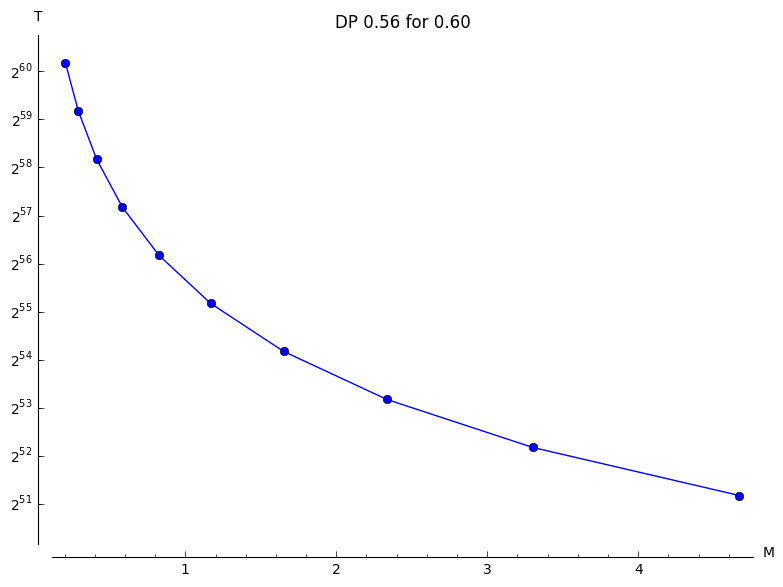
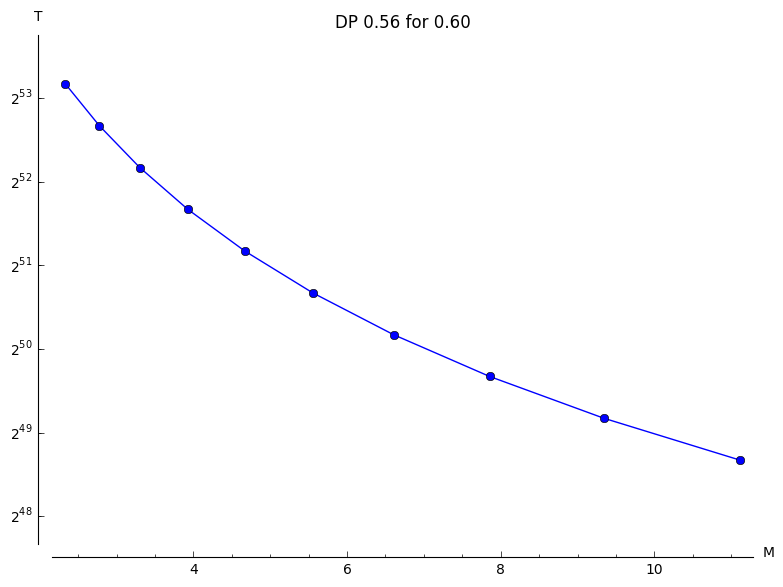
DP ish rapport & math

diff --git a/src/math/DP_table.tex b/src/math/DP_table.tex
@@ -1,41 +1,119 @@
 \begin{tabular}{llllll}
-dps: 0.60 & dmsc: 0.56 & dcr: 0.81 & dtc: 2.67 & dpc: 1.13 & dtmp 7.01 \\
+dps: 0.60 & dmsc: 0.56 & dcr: 0.81 & dtc: 3.53 & dpc: 1.13 & dtmp 7.01 \\
 m & t & l & M in tb & T \\
-$2^{4}$ & $2^{29.58}$ & $2^{30.59}$ & $0.21$ TB & $2^{60.17}$ \\
-$2^{5}$ & $2^{29.08}$ & $2^{30.09}$ & $0.29$ TB & $2^{59.17}$ \\
-$2^{6}$ & $2^{28.58}$ & $2^{29.59}$ & $0.41$ TB & $2^{58.17}$ \\
-$2^{7}$ & $2^{28.08}$ & $2^{29.09}$ & $0.58$ TB & $2^{57.17}$ \\
-$2^{8}$ & $2^{27.58}$ & $2^{28.59}$ & $0.83$ TB & $2^{56.17}$ \\
-$2^{9}$ & $2^{27.08}$ & $2^{28.09}$ & $1.17$ TB & $2^{55.17}$ \\
-$2^{10}$ & $2^{26.58}$ & $2^{27.59}$ & $1.65$ TB & $2^{54.17}$ \\
-$2^{11}$ & $2^{26.08}$ & $2^{27.09}$ & $2.34$ TB & $2^{53.17}$ \\
-$2^{12}$ & $2^{25.58}$ & $2^{26.59}$ & $3.30$ TB & $2^{52.17}$ \\
-$2^{13}$ & $2^{25.08}$ & $2^{26.09}$ & $4.67$ TB & $2^{51.17}$ \\
+$2^{11.00}$ & $2^{26.08}$ & $2^{27.09}$ & $2.34$ TB & $2^{53.17}$ \\
+$2^{11.50}$ & $2^{25.83}$ & $2^{26.84}$ & $2.78$ TB & $2^{52.67}$ \\
+$2^{12.00}$ & $2^{25.58}$ & $2^{26.59}$ & $3.30$ TB & $2^{52.17}$ \\
+$2^{12.50}$ & $2^{25.33}$ & $2^{26.34}$ & $3.93$ TB & $2^{51.67}$ \\
+$2^{13.00}$ & $2^{25.08}$ & $2^{26.09}$ & $4.67$ TB & $2^{51.17}$ \\
+$2^{13.50}$ & $2^{24.83}$ & $2^{25.84}$ & $5.55$ TB & $2^{50.67}$ \\
+$2^{14.00}$ & $2^{24.58}$ & $2^{25.59}$ & $6.60$ TB & $2^{50.17}$ \\
+$2^{14.50}$ & $2^{24.33}$ & $2^{25.34}$ & $7.85$ TB & $2^{49.67}$ \\
+$2^{15.00}$ & $2^{24.08}$ & $2^{25.09}$ & $9.34$ TB & $2^{49.17}$ \\
+$2^{15.50}$ & $2^{23.83}$ & $2^{24.84}$ & $11.11$ TB & $2^{48.67}$ \\
  &  &  &  &  &  \\
-dps: 0.73 & dmsc: 0.56 & dcr: 0.81 & dtc: 6.63 & dpc: 1.61 & dtmp 7.01 \\
+dps: 0.73 & dmsc: 0.56 & dcr: 0.81 & dtc: 8.77 & dpc: 1.61 & dtmp 7.01 \\
 m & t & l & M in tb & T \\
-$2^{4}$ & $2^{29.58}$ & $2^{31.10}$ & $0.29$ TB & $2^{60.69}$ \\
-$2^{5}$ & $2^{29.08}$ & $2^{30.60}$ & $0.42$ TB & $2^{59.69}$ \\
-$2^{6}$ & $2^{28.58}$ & $2^{30.10}$ & $0.59$ TB & $2^{58.69}$ \\
-$2^{7}$ & $2^{28.08}$ & $2^{29.60}$ & $0.83$ TB & $2^{57.69}$ \\
-$2^{8}$ & $2^{27.58}$ & $2^{29.10}$ & $1.18$ TB & $2^{56.69}$ \\
-$2^{9}$ & $2^{27.08}$ & $2^{28.60}$ & $1.67$ TB & $2^{55.69}$ \\
-$2^{10}$ & $2^{26.58}$ & $2^{28.10}$ & $2.36$ TB & $2^{54.69}$ \\
-$2^{11}$ & $2^{26.08}$ & $2^{27.60}$ & $3.34$ TB & $2^{53.69}$ \\
-$2^{12}$ & $2^{25.58}$ & $2^{27.10}$ & $4.72$ TB & $2^{52.69}$ \\
-$2^{13}$ & $2^{25.08}$ & $2^{26.60}$ & $6.67$ TB & $2^{51.69}$ \\
+$2^{10.00}$ & $2^{26.58}$ & $2^{28.10}$ & $2.36$ TB & $2^{54.69}$ \\
+$2^{10.50}$ & $2^{26.33}$ & $2^{27.85}$ & $2.81$ TB & $2^{54.19}$ \\
+$2^{11.00}$ & $2^{26.08}$ & $2^{27.60}$ & $3.34$ TB & $2^{53.69}$ \\
+$2^{11.50}$ & $2^{25.83}$ & $2^{27.35}$ & $3.97$ TB & $2^{53.19}$ \\
+$2^{12.00}$ & $2^{25.58}$ & $2^{27.10}$ & $4.72$ TB & $2^{52.69}$ \\
+$2^{12.50}$ & $2^{25.33}$ & $2^{26.85}$ & $5.61$ TB & $2^{52.19}$ \\
+$2^{13.00}$ & $2^{25.08}$ & $2^{26.60}$ & $6.67$ TB & $2^{51.69}$ \\
+$2^{13.50}$ & $2^{24.83}$ & $2^{26.35}$ & $7.94$ TB & $2^{51.19}$ \\
+$2^{14.00}$ & $2^{24.58}$ & $2^{26.10}$ & $9.44$ TB & $2^{50.69}$ \\
+$2^{14.50}$ & $2^{24.33}$ & $2^{25.85}$ & $11.22$ TB & $2^{50.19}$ \\
  &  &  &  &  &  \\
-dps: 0.90 & dmsc: 0.56 & dcr: 0.81 & dtc: 25.29 & dpc: 2.83 & dtmp 7.01 \\
+dps: 0.90 & dmsc: 0.56 & dcr: 0.81 & dtc: 33.45 & dpc: 2.83 & dtmp 7.01 \\
 m & t & l & M in tb & T \\
-$2^{4}$ & $2^{29.58}$ & $2^{31.92}$ & $0.52$ TB & $2^{61.50}$ \\
-$2^{5}$ & $2^{29.08}$ & $2^{31.42}$ & $0.73$ TB & $2^{60.50}$ \\
-$2^{6}$ & $2^{28.58}$ & $2^{30.92}$ & $1.04$ TB & $2^{59.50}$ \\
-$2^{7}$ & $2^{28.08}$ & $2^{30.42}$ & $1.47$ TB & $2^{58.50}$ \\
-$2^{8}$ & $2^{27.58}$ & $2^{29.92}$ & $2.07$ TB & $2^{57.50}$ \\
-$2^{9}$ & $2^{27.08}$ & $2^{29.42}$ & $2.93$ TB & $2^{56.50}$ \\
-$2^{10}$ & $2^{26.58}$ & $2^{28.92}$ & $4.15$ TB & $2^{55.50}$ \\
-$2^{11}$ & $2^{26.08}$ & $2^{28.42}$ & $5.87$ TB & $2^{54.50}$ \\
-$2^{12}$ & $2^{25.58}$ & $2^{27.92}$ & $8.30$ TB & $2^{53.50}$ \\
-$2^{13}$ & $2^{25.08}$ & $2^{27.42}$ & $11.74$ TB & $2^{52.50}$ \\
+$2^{8.00}$ & $2^{27.58}$ & $2^{29.92}$ & $2.07$ TB & $2^{57.50}$ \\
+$2^{8.50}$ & $2^{27.33}$ & $2^{29.67}$ & $2.47$ TB & $2^{57.00}$ \\
+$2^{9.00}$ & $2^{27.08}$ & $2^{29.42}$ & $2.93$ TB & $2^{56.50}$ \\
+$2^{9.50}$ & $2^{26.83}$ & $2^{29.17}$ & $3.49$ TB & $2^{56.00}$ \\
+$2^{10.00}$ & $2^{26.58}$ & $2^{28.92}$ & $4.15$ TB & $2^{55.50}$ \\
+$2^{10.50}$ & $2^{26.33}$ & $2^{28.67}$ & $4.93$ TB & $2^{55.00}$ \\
+$2^{11.00}$ & $2^{26.08}$ & $2^{28.42}$ & $5.87$ TB & $2^{54.50}$ \\
+$2^{11.50}$ & $2^{25.83}$ & $2^{28.17}$ & $6.98$ TB & $2^{54.00}$ \\
+$2^{12.00}$ & $2^{25.58}$ & $2^{27.92}$ & $8.30$ TB & $2^{53.50}$ \\
+$2^{12.50}$ & $2^{25.33}$ & $2^{27.67}$ & $9.87$ TB & $2^{53.00}$ \\
+ &  &  &  &  &  \\
+dps: 0.73 & dmsc: 0.20 & dcr: 0.92 & dtc: 11.40 & dpc: 1.43 & dtmp 9.11 \\
+m & t & l & M in tb & T \\
+$2^{9.00}$ & $2^{26.34}$ & $2^{29.18}$ & $2.48$ TB & $2^{55.52}$ \\
+$2^{9.50}$ & $2^{26.09}$ & $2^{28.93}$ & $2.95$ TB & $2^{55.02}$ \\
+$2^{10.00}$ & $2^{25.84}$ & $2^{28.68}$ & $3.51$ TB & $2^{54.52}$ \\
+$2^{10.50}$ & $2^{25.59}$ & $2^{28.43}$ & $4.18$ TB & $2^{54.02}$ \\
+$2^{11.00}$ & $2^{25.34}$ & $2^{28.18}$ & $4.97$ TB & $2^{53.52}$ \\
+$2^{11.50}$ & $2^{25.09}$ & $2^{27.93}$ & $5.91$ TB & $2^{53.02}$ \\
+$2^{12.00}$ & $2^{24.84}$ & $2^{27.68}$ & $7.03$ TB & $2^{52.52}$ \\
+$2^{12.50}$ & $2^{24.59}$ & $2^{27.43}$ & $8.36$ TB & $2^{52.02}$ \\
+$2^{13.00}$ & $2^{24.34}$ & $2^{27.18}$ & $9.94$ TB & $2^{51.52}$ \\
+$2^{13.50}$ & $2^{24.09}$ & $2^{26.93}$ & $11.82$ TB & $2^{51.02}$ \\
+ &  &  &  &  &  \\
+dps: 0.73 & dmsc: 0.35 & dcr: 0.87 & dtc: 9.29 & dpc: 1.51 & dtmp 7.42 \\
+m & t & l & M in tb & T \\
+$2^{9.00}$ & $2^{26.74}$ & $2^{28.85}$ & $1.98$ TB & $2^{55.59}$ \\
+$2^{9.50}$ & $2^{26.49}$ & $2^{28.60}$ & $2.36$ TB & $2^{55.09}$ \\
+$2^{10.00}$ & $2^{26.24}$ & $2^{28.35}$ & $2.80$ TB & $2^{54.59}$ \\
+$2^{10.50}$ & $2^{25.99}$ & $2^{28.10}$ & $3.33$ TB & $2^{54.09}$ \\
+$2^{11.00}$ & $2^{25.74}$ & $2^{27.85}$ & $3.96$ TB & $2^{53.59}$ \\
+$2^{11.50}$ & $2^{25.49}$ & $2^{27.60}$ & $4.71$ TB & $2^{53.09}$ \\
+$2^{12.00}$ & $2^{25.24}$ & $2^{27.35}$ & $5.61$ TB & $2^{52.59}$ \\
+$2^{12.50}$ & $2^{24.99}$ & $2^{27.10}$ & $6.67$ TB & $2^{52.09}$ \\
+$2^{13.00}$ & $2^{24.74}$ & $2^{26.85}$ & $7.93$ TB & $2^{51.59}$ \\
+$2^{13.50}$ & $2^{24.49}$ & $2^{26.60}$ & $9.43$ TB & $2^{51.09}$ \\
+ &  &  &  &  &  \\
+dps: 0.73 & dmsc: 0.56 & dcr: 0.81 & dtc: 8.77 & dpc: 1.61 & dtmp 7.01 \\
+m & t & l & M in tb & T \\
+$2^{9.00}$ & $2^{27.08}$ & $2^{28.60}$ & $1.67$ TB & $2^{55.69}$ \\
+$2^{9.50}$ & $2^{26.83}$ & $2^{28.35}$ & $1.98$ TB & $2^{55.19}$ \\
+$2^{10.00}$ & $2^{26.58}$ & $2^{28.10}$ & $2.36$ TB & $2^{54.69}$ \\
+$2^{10.50}$ & $2^{26.33}$ & $2^{27.85}$ & $2.81$ TB & $2^{54.19}$ \\
+$2^{11.00}$ & $2^{26.08}$ & $2^{27.60}$ & $3.34$ TB & $2^{53.69}$ \\
+$2^{11.50}$ & $2^{25.83}$ & $2^{27.35}$ & $3.97$ TB & $2^{53.19}$ \\
+$2^{12.00}$ & $2^{25.58}$ & $2^{27.10}$ & $4.72$ TB & $2^{52.69}$ \\
+$2^{12.50}$ & $2^{25.33}$ & $2^{26.85}$ & $5.61$ TB & $2^{52.19}$ \\
+$2^{13.00}$ & $2^{25.08}$ & $2^{26.60}$ & $6.67$ TB & $2^{51.69}$ \\
+$2^{13.50}$ & $2^{24.83}$ & $2^{26.35}$ & $7.94$ TB & $2^{51.19}$ \\
+ &  &  &  &  &  \\
+dps: 0.73 & dmsc: 0.75 & dcr: 0.77 & dtc: 8.97 & dpc: 1.69 & dtmp 7.17 \\
+m & t & l & M in tb & T \\
+$2^{9.00}$ & $2^{27.29}$ & $2^{28.46}$ & $1.52$ TB & $2^{55.76}$ \\
+$2^{9.50}$ & $2^{27.04}$ & $2^{28.21}$ & $1.80$ TB & $2^{55.26}$ \\
+$2^{10.00}$ & $2^{26.79}$ & $2^{27.96}$ & $2.15$ TB & $2^{54.76}$ \\
+$2^{10.50}$ & $2^{26.54}$ & $2^{27.71}$ & $2.55$ TB & $2^{54.26}$ \\
+$2^{11.00}$ & $2^{26.29}$ & $2^{27.46}$ & $3.03$ TB & $2^{53.76}$ \\
+$2^{11.50}$ & $2^{26.04}$ & $2^{27.21}$ & $3.61$ TB & $2^{53.26}$ \\
+$2^{12.00}$ & $2^{25.79}$ & $2^{26.96}$ & $4.29$ TB & $2^{52.76}$ \\
+$2^{12.50}$ & $2^{25.54}$ & $2^{26.71}$ & $5.10$ TB & $2^{52.26}$ \\
+$2^{13.00}$ & $2^{25.29}$ & $2^{26.46}$ & $6.07$ TB & $2^{51.76}$ \\
+$2^{13.50}$ & $2^{25.04}$ & $2^{26.21}$ & $7.22$ TB & $2^{51.26}$ \\
+ &  &  &  &  &  \\
+dps: 0.73 & dmsc: 1.00 & dcr: 0.73 & dtc: 9.57 & dpc: 1.79 & dtmp 7.65 \\
+m & t & l & M in tb & T \\
+$2^{9.00}$ & $2^{27.50}$ & $2^{28.34}$ & $1.39$ TB & $2^{55.84}$ \\
+$2^{9.50}$ & $2^{27.25}$ & $2^{28.09}$ & $1.65$ TB & $2^{55.34}$ \\
+$2^{10.00}$ & $2^{27.00}$ & $2^{27.84}$ & $1.97$ TB & $2^{54.84}$ \\
+$2^{10.50}$ & $2^{26.75}$ & $2^{27.59}$ & $2.34$ TB & $2^{54.34}$ \\
+$2^{11.00}$ & $2^{26.50}$ & $2^{27.34}$ & $2.78$ TB & $2^{53.84}$ \\
+$2^{11.50}$ & $2^{26.25}$ & $2^{27.09}$ & $3.31$ TB & $2^{53.34}$ \\
+$2^{12.00}$ & $2^{26.00}$ & $2^{26.84}$ & $3.93$ TB & $2^{52.84}$ \\
+$2^{12.50}$ & $2^{25.75}$ & $2^{26.59}$ & $4.68$ TB & $2^{52.34}$ \\
+$2^{13.00}$ & $2^{25.50}$ & $2^{26.34}$ & $5.56$ TB & $2^{51.84}$ \\
+$2^{13.50}$ & $2^{25.25}$ & $2^{26.09}$ & $6.61$ TB & $2^{51.34}$ \\
+ &  &  &  &  &  \\
+dps: 0.73 & dmsc: 1.25 & dcr: 0.70 & dtc: 10.36 & dpc: 1.88 & dtmp 8.28 \\
+m & t & l & M in tb & T \\
+$2^{9.00}$ & $2^{27.66}$ & $2^{28.25}$ & $1.31$ TB & $2^{55.91}$ \\
+$2^{9.50}$ & $2^{27.41}$ & $2^{28.00}$ & $1.55$ TB & $2^{55.41}$ \\
+$2^{10.00}$ & $2^{27.16}$ & $2^{27.75}$ & $1.85$ TB & $2^{54.91}$ \\
+$2^{10.50}$ & $2^{26.91}$ & $2^{27.50}$ & $2.20$ TB & $2^{54.41}$ \\
+$2^{11.00}$ & $2^{26.66}$ & $2^{27.25}$ & $2.61$ TB & $2^{53.91}$ \\
+$2^{11.50}$ & $2^{26.41}$ & $2^{27.00}$ & $3.11$ TB & $2^{53.41}$ \\
+$2^{12.00}$ & $2^{26.16}$ & $2^{26.75}$ & $3.70$ TB & $2^{52.91}$ \\
+$2^{12.50}$ & $2^{25.91}$ & $2^{26.50}$ & $4.40$ TB & $2^{52.41}$ \\
+$2^{13.00}$ & $2^{25.66}$ & $2^{26.25}$ & $5.23$ TB & $2^{51.91}$ \\
+$2^{13.50}$ & $2^{25.41}$ & $2^{26.00}$ & $6.22$ TB & $2^{51.41}$ \\
  &  &  &  &  &  \\
 \end{tabular}

diff --git a/report/param.tex b/report/param.tex
@@ -83,24 +83,40 @@ $2^{14.50}$ & $2^{25.33}$ & $2^{24.38}$ & $8.09$ & $2^{49.60}$ \\
 
 
 \section{Distinguished Points Table}
+$\*$Needs more work$\*$
 For this section we assume that $\hat{t}$ is sufficiently large.
 All calculations of parameters follows the theory provided in \ref{sec:dptheory}.
-
+Yet again the upper bound for the memory is set to  $8tb\approx2^{45.8}bit$, the success rate has been set as $73\%$. This is the basis for the parameters that will be selected.
+As shown in \ref{fig:dpHmsc} the smaller the matrix stopping constant gets the bigger the table gets, The time memory coefficient is most efficient at 0.56 \cite{176}. Which also states that a $D_{msc}$ above 0.56 should be avoided.
+Therefore the matrix stopping constant has been set to 0.56, using the formulas for optimal parameters from \cite{176} \ref{tab:DPparam} is generated.
 \begin{figure}[H]
   \centering
-  \begin{minipage}{0.45\textwidth}
-    \centering
-    \includegraphics[width=1.2\textwidth]{figures/HellmanTradeOff.png}
-    \captionof{figure}{Figure from \cite{176}}
-    \label{fig:dpTC}
-  \end{minipage}\hfill
-  \begin{minipage}{0.45\textwidth}
-    \centering
-    \includegraphics[width=1.2\textwidth]{figures/compareHmsc.png}
-    \captionof{figure}{$H_{msc}$ from 0.75 to 2.75}
+  need to put lables on the elements from left to right 0.2, 0.3, 0.56, 0.75, 1.00, 1.25
+    \includegraphics[width=0.5\textwidth]{figures/compareDmsc.png}
+    \captionof{figure}{$D_{msc}$ from 0.2 to 1}
     \label{fig:dpHmsc}
-  \end{minipage}
 \end{figure}
+\begin{table}[H]
+  \centering
+  \text{\texttt{Success{ }={ }0.73,{ }Dmsc{ }={ }0.56,{ }Dcr{ }={ }0.81,{ }Dtc{ }={ }8.77{ }Dpc{ }={ }1.60} }
+\begin{tabular}{lllll}
+m & t & l & M in TB & T \\\hline
+$2^{10.00}$ & $2^{26.58}$ & $2^{28.10}$ & $2.36$ & $2^{54.69}$ \\
+$2^{10.50}$ & $2^{26.33}$ & $2^{27.85}$ & $2.81$ & $2^{54.19}$ \\
+$2^{11.00}$ & $2^{26.08}$ & $2^{27.60}$ & $3.34$ & $2^{53.69}$ \\
+$2^{11.50}$ & $2^{25.83}$ & $2^{27.35}$ & $3.97$ & $2^{53.19}$ \\
+$2^{12.00}$ & $2^{25.58}$ & $2^{27.10}$ & $4.72$ & $2^{52.69}$ \\
+$2^{12.50}$ & $2^{25.33}$ & $2^{26.85}$ & $5.61$ & $2^{52.19}$ \\
+$2^{13.00}$ & $2^{25.08}$ & $2^{26.60}$ & $6.67$ & $2^{51.69}$ \\
+$2^{13.50}$ & $2^{24.83}$ & $2^{26.35}$ & $7.94$ & $2^{51.19}$ \\
+$2^{14.00}$ & $2^{24.58}$ & $2^{26.10}$ & $9.44$ & $2^{50.69}$ \\
+$2^{14.50}$ & $2^{24.33}$ & $2^{25.85}$ & $11.22$ & $2^{50.19}$ \\
+ &  &  &  &  &  \\
+\end{tabular}
+  \caption{DP Parameters}
+  \label{tab:DPparam}
+\end{table}
+
 
 \section{Rainbow Table}
 \label{sec:rainbowparam}
@@ -121,10 +137,10 @@ cost compared to storing both start point and end point.
 As we have a chosen success rate $P$ set, \cite[Proposition
 29]{176} shows that from a given $P$ we can calculate a lower bound
 for $R_{msc}$ as follows
-\[R_{ps} = 1 - \left( \frac{2}{2 + R_{msc}}^{2l} \right) \Rightarrow R_{msc} = 2 ((1 - R_{ps})^{-\frac{1}{2l}} - 1)\] 
+\[R_{ps} = 1 - \left( \frac{2}{2 + R_{msc}}^{2l} \right) \Rightarrow R_{msc} = 2 ((1 - R_{ps})^{-\frac{1}{2l}} - 1)\]
 Where $R_{ps}$ is the success probability of a rainbow attack. With
 that in mind we can now for different values of $m$ compute the
-corresponding $t$ value where the $R_{msc}$ is satisfied. 
+corresponding $t$ value where the $R_{msc}$ is satisfied.
 
 Table \ref{tab:rainparam} shows the relation between \code{t} and
 \code{m} in a Rainbow attack, when the success rate of $73\%$ is set\footnote{Tables for $P = 58\%, P = 73\%, P = 90\%$ and tables $l=1..3$ are generated and can be
